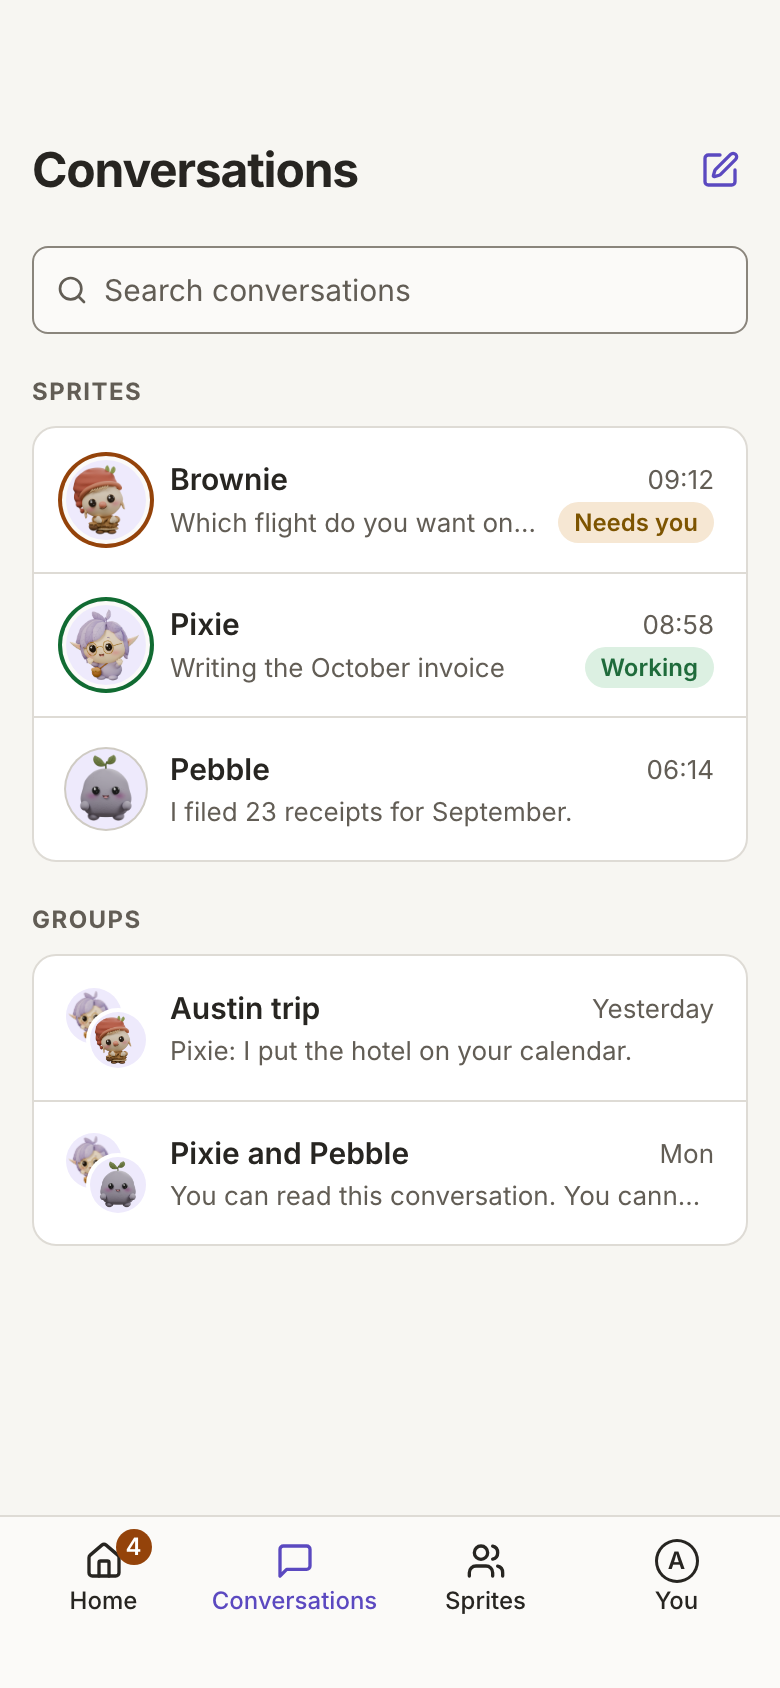
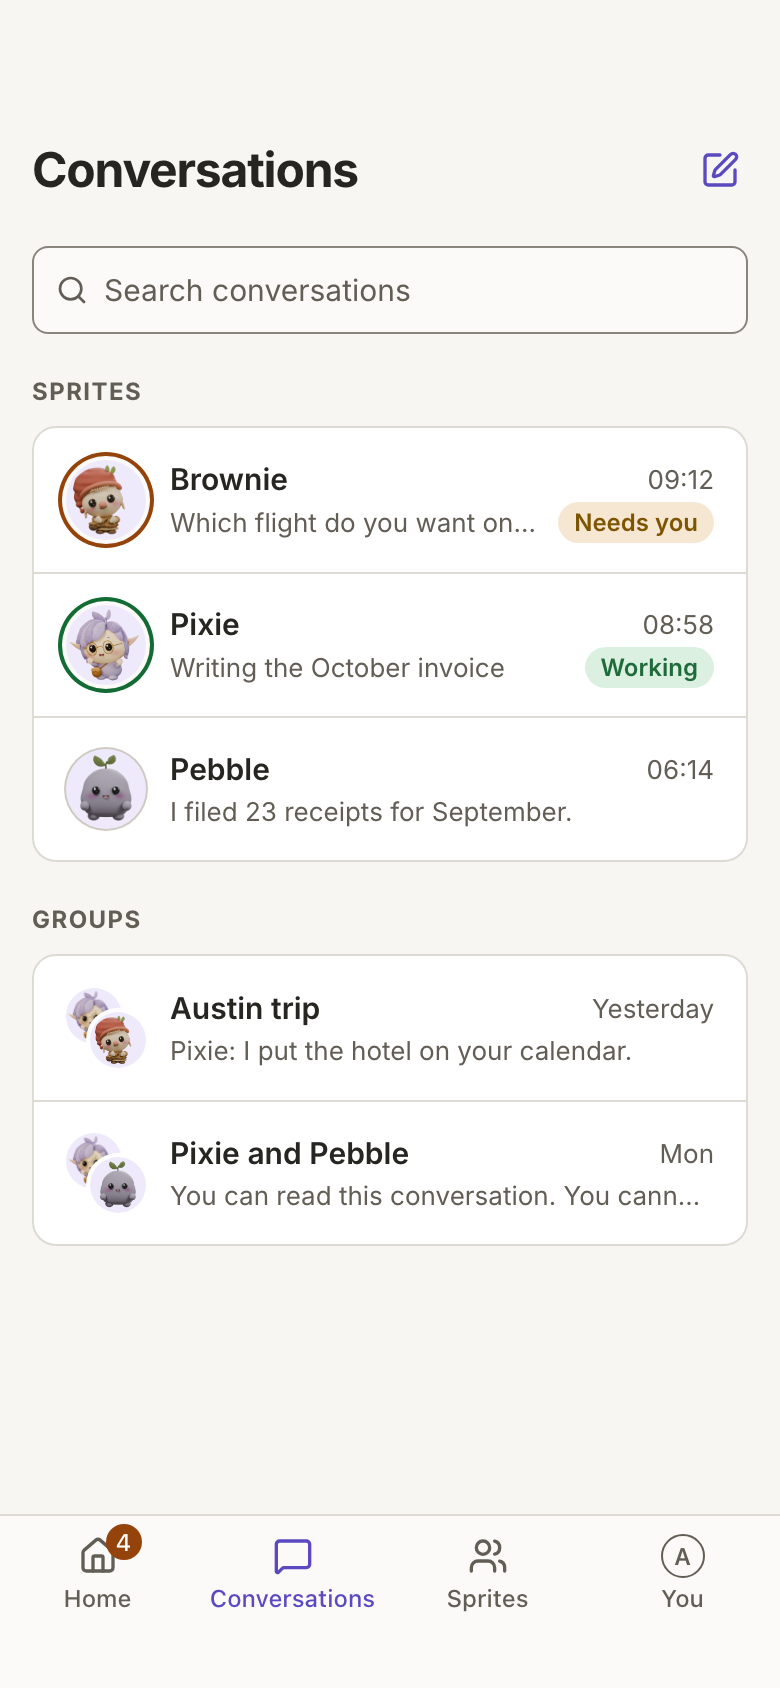
The phone tab bar follows the iOS and Material 3 tab bars
The four places have the same width, whatever the length of their
labels. Each place shows its icon over a one-line label. The places
that are not current are muted. The bar is 53 px tall above the bottom
safe area and adds no padding on top of the inset. The Conversations tab
root no longer pads its content by the bottom inset that the tab bar
holds. The reference images of the phone layout show the new bar.

The spacing scale accepts max() and min() of tokens, as it accepts
calc().

diff --git a/ui/src/safeArea.test.ts b/ui/src/safeArea.test.ts
@@ -9,12 +9,10 @@ import { readFileSync, readdirSync } from 'node:fs'
 import { dirname, join, relative, resolve } from 'node:path'
 import { fileURLToPath } from 'node:url'
 import { describe, expect, it } from 'vitest'
+import { blocks } from './test/css'
+import { stripComments } from './test/tokens'
 
 const srcDir = resolve(dirname(fileURLToPath(import.meta.url)))
-
-function stripComments(css: string): string {
-  return css.replace(/\/\*[\s\S]*?\*\//g, '')
-}
 
 function stylesheets(dir: string): { name: string; css: string }[] {
   return readdirSync(dir, { withFileTypes: true }).flatMap((entry) => {
@@ -23,25 +21,6 @@ function stylesheets(dir: string): { name: string; css: string }[] {
     if (!entry.name.endsWith('.css')) return []
     return [{ name: relative(srcDir, path), css: stripComments(readFileSync(path, 'utf8')) }]
   })
-}
-
-/** The bodies of every block that opens with `prelude`, nested blocks
- * included. */
-function blocks(css: string, prelude: string): string {
-  const escaped = prelude.replace(/[.*+?^${}()|[\]\\]/g, '\\$&')
-  const opening = new RegExp(`(?:^|\\n)\\s*${escaped}\\s*\\{`, 'g')
-  const bodies = [...css.matchAll(opening)].map((match) => {
-    const open = match.index + match[0].length - 1
-    let depth = 0
-    let end = open
-    for (; end < css.length; end += 1) {
-      if (css[end] === '{') depth += 1
-      else if (css[end] === '}' && (depth -= 1) === 0) break
-    }
-    return css.slice(open + 1, end)
-  })
-  if (bodies.length === 0) throw new Error(`no block opens with ${prelude}`)
-  return bodies.join('\n')
 }
 
 const sides = ['top', 'right', 'bottom', 'left'] as const
@@ -101,6 +80,13 @@ describe('the root and each fixed layer stay inside the safe area', () => {
     expect(body).toMatch(/position:\s*sticky/)
     expect(body).toMatch(/top:\s*0/)
     expect(css).not.toMatch(/\.nav-bar\s*\{[^}]*position:\s*relative/)
+  })
+
+  // The tab bar holds the bottom inset of a tab root, so the content
+  // above the bar ends at its own padding.
+  it('pads no content of a tab root by the bottom inset', () => {
+    const css = stripComments(readFileSync(join(srcDir, 'components/phone/phone.css'), 'utf8'))
+    expect(blocks(css, '.phone-conversations')).toMatch(/padding-bottom:\s*var\(--space-5\)/)
   })
 
   // In a phone browser `100vh` is the height with the browser bars

diff --git a/ui/src/components/phone/tabBar.test.ts b/ui/src/components/phone/tabBar.test.ts
@@ -1,0 +1,43 @@
+// The tab bar of the phone layout. It follows the iOS tab bar and the
+// Material 3 navigation bar: four places of equal width, an icon over
+// a one-line label, the current place in the accent and the other
+// places muted, and one bottom safe-area inset under the bar.
+
+import { readFileSync } from 'node:fs'
+import { dirname, join } from 'node:path'
+import { fileURLToPath } from 'node:url'
+import { describe, expect, it } from 'vitest'
+import { blocks } from '../../test/css'
+import { stripComments } from '../../test/tokens'
+
+const css = stripComments(
+  readFileSync(join(dirname(fileURLToPath(import.meta.url)), 'phone.css'), 'utf8'),
+)
+
+describe('the tab bar', () => {
+  // A grid track of `1fr` grows to fit its widest content, so a long
+  // label would make its place wider than the others.
+  it('gives each place the same width, whatever its label', () => {
+    expect(blocks(css, '.tab-bar')).toMatch(/grid-template-columns:\s*repeat\(4,\s*minmax\(0,\s*1fr\)\)/)
+  })
+
+  it('keeps each label on one line', () => {
+    const label = blocks(css, '.tab-bar-label')
+    expect(label).toMatch(/white-space:\s*nowrap/)
+    expect(label).toMatch(/overflow:\s*hidden/)
+    expect(label).toMatch(/text-overflow:\s*ellipsis/)
+  })
+
+  it('mutes each place that is not current', () => {
+    expect(blocks(css, '.tab-bar-place')).toMatch(/color:\s*var\(--muted\)/)
+    expect(blocks(css, ".tab-bar-place[aria-current='page']")).toMatch(/color:\s*var\(--accent\)/)
+  })
+
+  // On a phone with a home indicator, the inset is the space under the
+  // bar. The bar adds no padding of its own on top of the inset.
+  it('puts the bottom inset or its own padding under the bar, not both', () => {
+    expect(blocks(css, '.tab-bar')).toMatch(
+      /padding:\s*var\(--space-[\d-]+\)\s+0\s+max\(var\(--space-[\d-]+\),\s*var\(--safe-bottom\)\)/,
+    )
+  })
+})

diff --git a/ui/src/components/phone/phone.css b/ui/src/components/phone/phone.css
@@ -59,27 +59,39 @@
   display: flex;
   gap: var(--space-1);
 }
+/* The tab bar follows the iOS tab bar and the Material 3 navigation
+ * bar: an icon over a one-line label, about 49 px tall, and the
+ * home indicator inset under it. */
 .tab-bar {
   display: grid;
-  grid-template-columns: repeat(4, 1fr);
+  grid-template-columns: repeat(4, minmax(0, 1fr));
   flex: none;
   border-top: 1px solid var(--border);
   background: var(--panel);
-  padding: var(--space-2-5) 0 calc(var(--space-2-5) + var(--safe-bottom));
+  padding: var(--space-2) 0 max(var(--space-2), var(--safe-bottom));
 }
 .tab-bar-place {
   display: flex;
   flex-direction: column;
   align-items: center;
-  gap: var(--space-1);
+  gap: var(--space-0-5);
+  min-width: 0;
   min-height: 44px;
-  color: var(--text);
+  padding: 0 var(--space-1);
+  color: var(--muted);
   text-decoration: none;
   font-size: var(--text-xs);
   font-weight: var(--weight-medium);
+  line-height: var(--leading-tight);
 }
 .tab-bar-place[aria-current='page'] {
   color: var(--accent);
+}
+.tab-bar-label {
+  max-width: 100%;
+  white-space: nowrap;
+  overflow: hidden;
+  text-overflow: ellipsis;
 }
 .tab-bar-icon {
   position: relative;
@@ -475,6 +487,7 @@
 }
 .phone-conversations {
   padding-top: 0;
+  padding-bottom: var(--space-5);
 }
 .phone-conversation-row {
   min-height: 72px;

diff --git a/ui/src/tokens.test.ts b/ui/src/tokens.test.ts
@@ -267,9 +267,10 @@ describe('the screens hold to the design system', () => {
 })
 
 // Weight, leading, tracking, opacity and spacing come from their scales
-// in `tokens.css` too. A value may compose tokens in a calc(), negate
-// one, or read the platform through env(); it names no length or
-// number of its own.
+// in `tokens.css` too. A value may compose tokens in a calc(), take
+// the larger or smaller of tokens in a max() or min(), negate one, or
+// read the platform through env(); it names no length or number of its
+// own.
 
 /** The part of a value that is not a token, a composition of tokens
  * or a keyword. */
@@ -278,7 +279,7 @@ function ownValue(value: string, keywords: Set<string>): string {
     .replace(/env\([^)]*\)/g, '')
     .replace(/calc\(\s*-1\s*\*\s*var\(--[\w-]+\)\s*\)/g, '')
     .replace(/var\(--[\w-]+\)/g, '')
-    .replace(/calc\(|\)|\s[+-]\s/g, ' ')
+    .replace(/(?:calc|max|min)\(|\)|,|\s[+-]\s/g, ' ')
     .trim()
     .split(/\s+/)
     .filter((part) => part !== '' && part !== '0' && !keywords.has(part.toLowerCase()))

diff --git a/ui/src/test/css.ts b/ui/src/test/css.ts
@@ -1,0 +1,21 @@
+// The rules of a stylesheet, for the tests that hold a stylesheet to
+// the design system.
+
+/** The bodies of every block that opens with `prelude`, nested blocks
+ * included. */
+export function blocks(css: string, prelude: string): string {
+  const escaped = prelude.replace(/[.*+?^${}()|[\]\\]/g, '\\$&')
+  const opening = new RegExp(`(?:^|\\n)\\s*${escaped}\\s*\\{`, 'g')
+  const bodies = [...css.matchAll(opening)].map((match) => {
+    const open = match.index + match[0].length - 1
+    let depth = 0
+    let end = open
+    for (; end < css.length; end += 1) {
+      if (css[end] === '{') depth += 1
+      else if (css[end] === '}' && (depth -= 1) === 0) break
+    }
+    return css.slice(open + 1, end)
+  })
+  if (bodies.length === 0) throw new Error(`no block opens with ${prelude}`)
+  return bodies.join('\n')
+}

diff --git a/ui/src/components/phone/TabBar.tsx b/ui/src/components/phone/TabBar.tsx
@@ -35,7 +35,7 @@ export function TabBar({ api }: { api: ApiClient }) {
             {Icon ? <Icon size={20} /> : <span className="tab-bar-initial">{initial}</span>}
             {label === 'Home' && count > 0 && <span className="tab-bar-count">{count}</span>}
           </span>
-          <span>{label}</span>
+          <span className="tab-bar-label">{label}</span>
         </Link>
       ))}
     </nav>

diff --git a/docs/design/mobile/README.md b/docs/design/mobile/README.md
@@ -19,6 +19,13 @@ ends above the home indicator (34 px). The images show no status bar.
 The tab bar holds Home, Conversations, Sprites and You. Home shows the
 count of the Needs-You Queue.
 
+The tab bar follows the iOS tab bar and the Material 3 navigation bar.
+The four places have the same width. Each place shows a 20 px icon over
+a one-line label in the smallest type. The current place uses the
+accent color, and the other places are muted. The bar is 53 px tall above
+the bottom safe area. On a screen with no bottom safe area, the bar adds
+8 px under the labels.
+
 | Screen | Image |
 | --- | --- |
 | Home | [home.png](home.png) |
